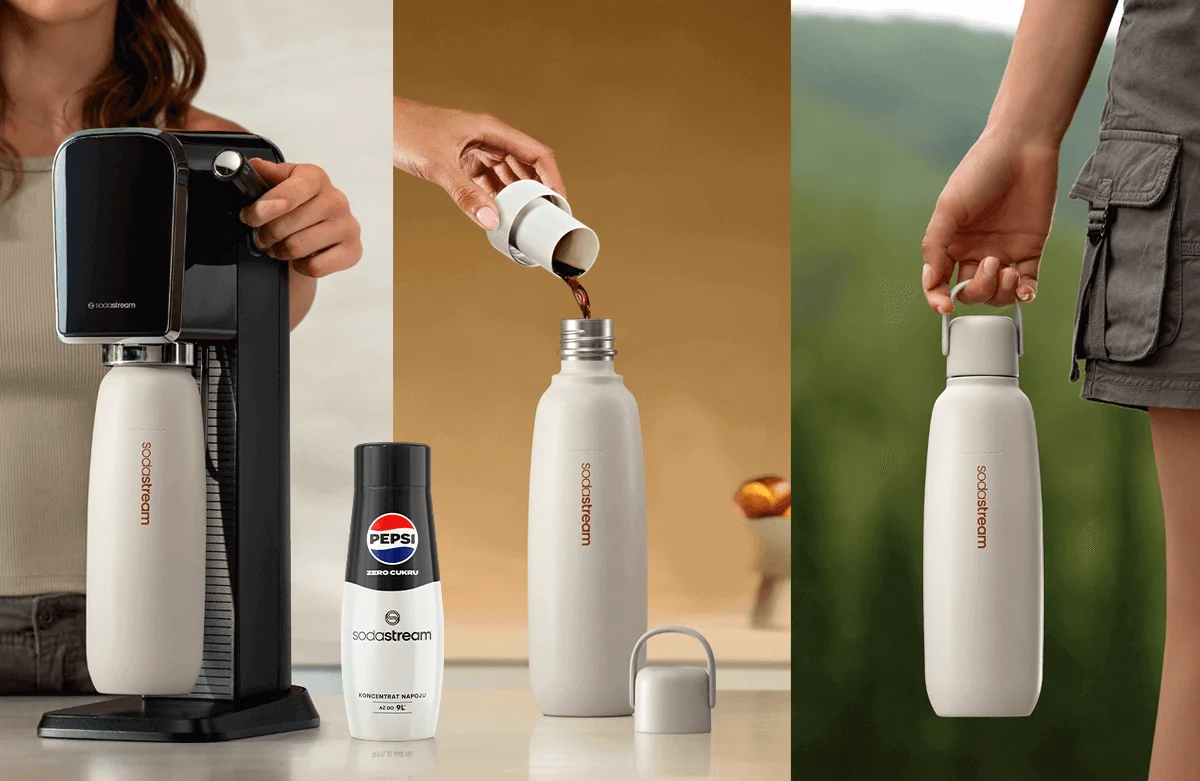
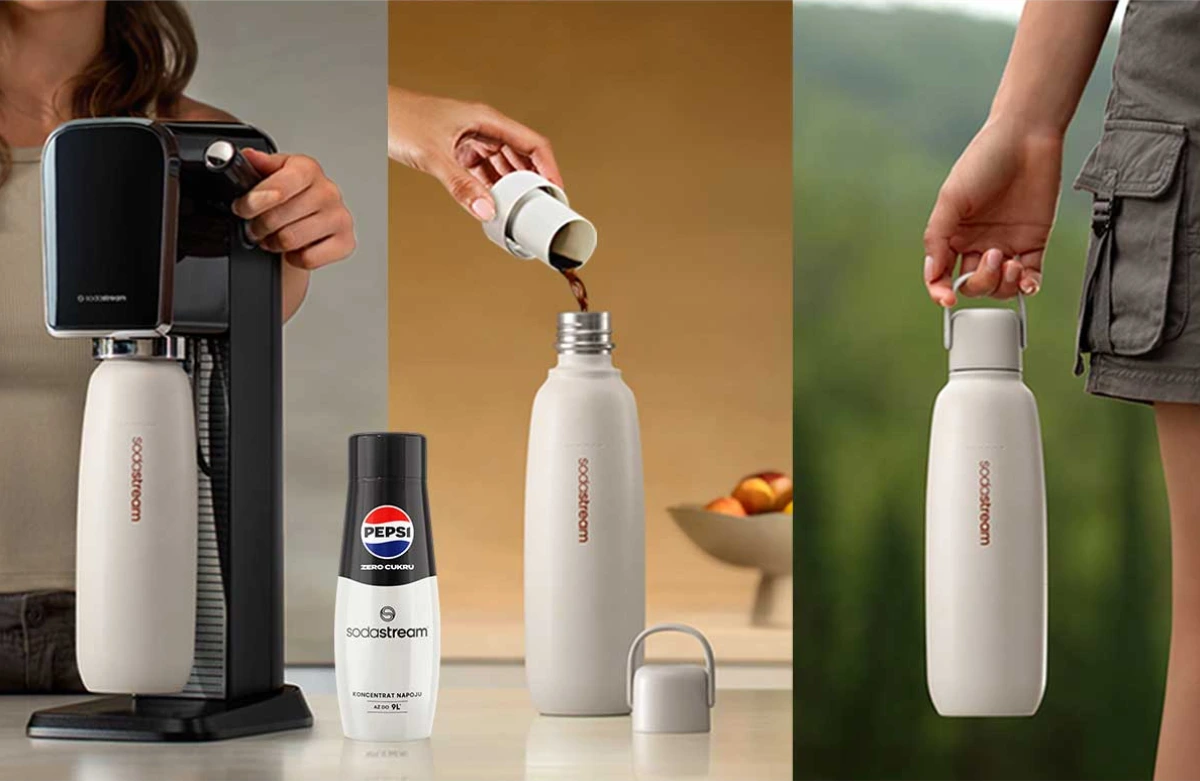
feat: modify colors and replace image

diff --git a/css/style.css b/css/style.css
@@ -1,1 +1,1 @@
-@font-face{font-family:HurmeGeometricSans3-Bold;src:local('HurmeGeometricSans3-Bold'),url('../fonts/HurmeGeometricSans3-Bold.woff2') format('truetype')}@font-face{font-family:HurmeGeometricSans3-Regular;src:local('HurmeGeometricSans3-Regular'),url('../fonts/HurmeGeometricSans3-Regular.woff2') format('truetype')}@font-face{font-family:HurmeGeometricSans3-Black;src:local('HurmeGeometricSans3-Black'),url('../fonts/HurmeGeometricSans3-Black.woff2') format('truetype')}@font-face{font-family:HurmeGeometricSans3-Light;src:local('HurmeGeometricSans3-Light'),url('../fonts/HurmeGeometricSans3-Light.woff2') format('truetype')}#es-rc #es-rc-content{font-family:HurmeGeometricSans3-Regular,sans-serif,sans-serif;font-size:16px;font-weight:300;line-height:1.2;max-width:920px;margin:0 auto;padding:0;overflow:hidden;color:#14284b;background:#fff}#es-rc #es-rc-content *{box-sizing:border-box}#es-rc #es-rc-content h2,#es-rc #es-rc-content h3,#es-rc #es-rc-content h4,#es-rc #es-rc-content h5,#es-rc #es-rc-content h6,#es-rc #es-rc-content p{margin:0}#es-rc #es-rc-content img{max-width:100%;display:block;margin:0 auto}#es-rc #es-rc-content .es-kv{background:url(../img/kv-bg.webp) center center/cover no-repeat;padding-bottom:75px}#es-rc #es-rc-content .es-kv__logo{padding-top:30px;margin-bottom:30px;max-width:90%}#es-rc #es-rc-content .es-kv__content{padding-left:10px;padding-right:10px;text-align:center}#es-rc #es-rc-content .es-kv__title{margin-bottom:10px;font-size:70px;font-family:HurmeGeometricSans3-Black,sans-serif;font-weight:500;color:inherit}#es-rc #es-rc-content .es-description__title,#es-rc #es-rc-content .es-design__description b,#es-rc #es-rc-content .es-kv__description,#es-rc #es-rc-content .es-kv__subtitle{font-family:HurmeGeometricSans3-Bold,sans-serif;font-weight:400}#es-rc #es-rc-content .es-kv__subtitle{margin-bottom:30px;font-size:18px}#es-rc #es-rc-content .es-kv__description{margin-bottom:20px}#es-rc #es-rc-content .es-description__subtitle,#es-rc #es-rc-content .es-description__title{margin-bottom:35px;font-size:16px;color:#eeebe6;text-align:center}#es-rc #es-rc-content .es-kv__packshot{max-width:30%}#es-rc #es-rc-content .es-description{display:flex;flex-direction:column-reverse;background:linear-gradient(to bottom,#898178 50%,#14284b 50%)}#es-rc #es-rc-content .es-description__left{padding:30px 10px 30px 0}#es-rc #es-rc-content .es-description__right{padding:30px 10px}#es-rc #es-rc-content .es-description__img{margin-top:-65px}#es-rc #es-rc-content .es-description__subtitle{font-family:HurmeGeometricSans3-Regular,sans-serif;font-weight:500}#es-rc #es-rc-content .es-style{background:#14284b;padding-bottom:50px;margin-top:-1px}#es-rc #es-rc-content .es-style__title{margin-bottom:20px;font-size:24px;font-family:HurmeGeometricSans3-Bold,sans-serif;font-weight:400;color:#fff;text-align:center}#es-rc #es-rc-content .es-style__subtitle{margin-bottom:10px;font-size:18px;font-family:HurmeGeometricSans3-Bold,sans-serif;color:#fff;text-align:center}#es-rc #es-rc-content .es-style__description{padding-left:10px;padding-right:10px;max-width:450px;margin:0 auto;font-size:16px;font-family:HurmeGeometricSans3-Regular,sans-serif;color:#fff;text-align:center}#es-rc #es-rc-content .es-style__packshot-title{margin-top:20px;margin-bottom:30px;font-size:24px;font-family:HurmeGeometricSans3-Bold,sans-serif;color:#fff;text-align:center}#es-rc #es-rc-content .es-style__img{max-width:25%}#es-rc #es-rc-content .es-style__img--desktop{max-width:100%;display:none}#es-rc #es-rc-content .es-style__packshot-wrapper{display:none}#es-rc #es-rc-content .es-style__packshot-desktop{max-width:480px;margin-top:45px}#es-rc #es-rc-content .es-benefits{padding-top:30px;padding-bottom:30px;background:linear-gradient(to bottom,#eeebe6 30%,#72b1c3 30%)}#es-rc #es-rc-content .es-benefits__img,#es-rc #es-rc-content .es-features__img,#es-rc #es-rc-content .es-steps__image{margin-bottom:30px}#es-rc #es-rc-content .es-benefits__title,#es-rc #es-rc-content .es-features__title{padding-left:10px;padding-right:10px;margin-bottom:30px;font-size:24px;font-family:HurmeGeometricSans3-Bold,sans-serif;font-weight:400;text-align:center;color:#14284b}#es-rc #es-rc-content .es-benefits__subtitle{padding-left:10px;padding-right:10px;margin-bottom:10px;font-size:16px;text-align:left;font-family:HurmeGeometricSans3-Bold,sans-serif;color:#14284b}#es-rc #es-rc-content .es-benefits__description,#es-rc #es-rc-content .es-design__description,#es-rc #es-rc-content .es-features__description{padding-left:10px;padding-right:10px;margin-bottom:20px;font-size:16px;font-family:HurmeGeometricSans3-Regular,sans-serif}#es-rc #es-rc-content .es-benefits__content-title{max-width:300px;margin:0 auto 30px;font-size:24px;font-family:HurmeGeometricSans3-Bold,sans-serif;font-weight:400;color:#14284b;text-align:center}#es-rc #es-rc-content .es-benefits__content-list,#es-rc #es-rc-content .es-steps__list{display:flex;flex-direction:column;align-items:center;gap:30px}#es-rc #es-rc-content .es-benefits__content-list-item{max-width:250px}#es-rc #es-rc-content .es-benefits__content-list-item-image{margin-bottom:20px}#es-rc #es-rc-content .es-benefits__content-list-item-title{padding-left:10px;padding-right:10px;margin-bottom:20px;font-size:16px;font-family:HurmeGeometricSans3-Regular,sans-serif;color:#14284b;font-weight:700;text-align:center}#es-rc #es-rc-content .es-features{margin-top:-1px;background:linear-gradient(to bottom,#72b1c3 10%,#eeebe6 10%)}#es-rc #es-rc-content .es-features__bottle-content{padding-bottom:50px}#es-rc #es-rc-content .es-features__bottle-content-image{margin-bottom:30px;max-width:40%}#es-rc #es-rc-content .es-features__bottle-content-icons{display:flex;flex-direction:column;gap:30px}#es-rc #es-rc-content .es-features__bottle-content-single{max-width:250px;margin:0 auto}#es-rc #es-rc-content .es-features__bottle-content-icon-image{margin-bottom:20px}#es-rc #es-rc-content .es-features__bottle-content-icon-title{font-size:16px;font-family:HurmeGeometricSans3-Regular,sans-serif;text-align:center}#es-rc #es-rc-content .es-features__bottle-content--desktop{display:none}#es-rc #es-rc-content .es-steps{background:#eeebe6;padding-bottom:50px}#es-rc #es-rc-content .es-steps__group{position:relative}#es-rc #es-rc-content .es-steps__label{position:absolute;font-family:HurmeGeometricSans3-Regular,sans-serif;font-size:clamp(8px, 2.5vw, 26px);font-weight:700;color:#fff;text-transform:uppercase;width:clamp(50px,20vw,200px);height:clamp(50px,20vw,200px);border-radius:50%;background-color:#e46c5c;display:flex;align-items:center;justify-content:center;text-align:center;padding:10px;line-height:1.2;top:38%;right:22%}#es-rc #es-rc-content .es-steps__text{position:absolute;font-family:HurmeGeometricSans3-Bold,sans-serif;font-size:20px;font-size:clamp(18px, 5vw, 60px);font-weight:700;color:#fff}#es-rc #es-rc-content .es-steps__text--first{top:5%;left:10%}#es-rc #es-rc-content .es-steps__text--second{top:5%;left:40%}#es-rc #es-rc-content .es-steps__text--third{top:5%;right:3%}#es-rc #es-rc-content .es-steps__single{display:flex;flex-direction:column;align-items:center;gap:20px;max-width:275px}#es-rc #es-rc-content .es-steps__single-title{font-size:30px;margin-bottom:10px;font-family:HurmeGeometricSans3-Bold,sans-serif;text-align:center;color:#898178}#es-rc #es-rc-content .es-cross__subtitle,#es-rc #es-rc-content .es-restrictions__description,#es-rc #es-rc-content .es-steps__single-description{padding-left:10px;padding-right:10px;font-size:16px;font-family:HurmeGeometricSans3-Regular,sans-serif;text-align:center;margin-bottom:20px}#es-rc #es-rc-content .es-steps__single-image{width:200px}#es-rc #es-rc-content .es-restrictions{background-color:#898178;position:relative;padding-bottom:60px}#es-rc #es-rc-content .es-restrictions__image{position:absolute;margin-top:-40px;top:0;left:0}#es-rc #es-rc-content .es-restrictions__description{padding-top:60%;color:#eeebe6}#es-rc #es-rc-content .es-restrictions__description--bold{display:block;font-family:HurmeGeometricSans3-Bold,sans-serif}#es-rc #es-rc-content .es-restrictions__disclaimer{padding-left:20px;padding-right:20px;margin-bottom:20px;font-size:12px;font-family:HurmeGeometricSans3-Regular,sans-serif;color:#eeebe6;text-align:right}#es-rc #es-rc-content .es-design{background:linear-gradient(to bottom,#e5dcd3 95%,#eeebe6 10%);padding-top:100%;position:relative;padding-bottom:30px}#es-rc #es-rc-content .es-cross__title,#es-rc #es-rc-content .es-design__title{padding-left:10px;padding-right:10px;margin-bottom:30px;font-size:24px;font-family:HurmeGeometricSans3-Bold,sans-serif;text-align:center}#es-rc #es-rc-content .es-design__left-image{position:absolute;top:0;left:0;margin-top:-20px}#es-rc #es-rc-content .es-design__content{padding-left:10px;padding-right:10px;padding-bottom:20px}#es-rc #es-rc-content .es-cross,#es-rc #es-rc-content .es-footer{background:#eeebe6;padding-bottom:30px}#es-rc #es-rc-content .es-cross__single-image{max-width:75%;margin-bottom:30px}#es-rc #es-rc-content .es-cross__items{display:flex;flex-direction:column;align-items:center;gap:20px}#es-rc #es-rc-content .es-cross__single-item-title{padding-left:10px;padding-right:10px;font-size:18px;font-family:HurmeGeometricSans3-Bold,sans-serif;text-align:center}#es-rc #es-rc-content .es-cross__single-description{padding-left:10px;padding-right:10px;margin-bottom:20px;font-size:15px;font-family:HurmeGeometricSans3-Regular,sans-serif;text-align:center}#es-rc #es-rc-content .es-footer__image{max-width:90%;margin-bottom:20px}#es-rc #es-rc-content .es-footer__subtitle{margin-bottom:30px;font-size:16px;font-family:HurmeGeometricSans3-Bold,sans-serif;font-weight:700;text-align:center}@media screen and (min-width:500px){#es-rc #es-rc-content .es-benefits__content-list{flex-direction:row;flex-wrap:wrap;justify-content:center;align-items:flex-start;max-width:500px;margin:0 auto}#es-rc #es-rc-content .es-benefits__content-list-item{max-width:220px}}@media screen and (min-width:567px){#es-rc #es-rc-content .es-description__img{max-width:380px;margin-left:0}#es-rc #es-rc-content .es-benefits__img,#es-rc #es-rc-content .es-design__right-image{max-width:450px;margin-right:0}#es-rc #es-rc-content .es-design__left-image,#es-rc #es-rc-content .es-features__img{max-width:450px;margin-left:0}#es-rc #es-rc-content .es-design{padding-top:455px}}@media screen and (min-width:768px){#es-rc #es-rc-content .es-features__title,#es-rc #es-rc-content .es-steps__single-description--1{text-align:left}#es-rc #es-rc-content .es-kv{position:relative;min-height:600px}#es-rc #es-rc-content .es-kv__logo{margin-left:35px;padding-top:100px;margin-bottom:0;max-width:30%}#es-rc #es-rc-content .es-kv__content{margin-left:35px;padding-left:0;max-width:500px;text-align:left}#es-rc #es-rc-content .es-kv__title{font-size:110px}#es-rc #es-rc-content .es-kv__subtitle{margin-bottom:100px;font-size:32px}#es-rc #es-rc-content .es-kv__description{max-width:300px}#es-rc #es-rc-content .es-kv__packshot{position:absolute;top:10%;right:16%;max-width:160px}#es-rc #es-rc-content .es-description{padding-top:50px;display:flex;flex-direction:row;justify-content:space-between;background:linear-gradient(to bottom,#898178 85%,#14284b 50%);min-height:400px}#es-rc #es-rc-content .es-description__right{max-width:310px;margin-right:8%}#es-rc #es-rc-content .es-description__img{margin-top:-150px;max-width:380px;position:relative;z-index:1}#es-rc #es-rc-content .es-style{background:linear-gradient(to bottom,#14284b 75%,#eeebe6 50%);padding-bottom:0}#es-rc #es-rc-content .es-style__title{font-size:35px;margin-bottom:100px}#es-rc #es-rc-content .es-style__description{margin:0 auto 30px;max-width:545px;font-size:20px}#es-rc #es-rc-content .es-style__packshots{display:none}#es-rc #es-rc-content .es-style__packshot-wrapper{display:block;position:relative;max-width:735px;margin:0 auto}#es-rc #es-rc-content .es-style__packshot-desktop-title{position:absolute;font-size:24px;font-family:HurmeGeometricSans3-Bold,sans-serif;color:#fff}#es-rc #es-rc-content .es-style__packshot-desktop-title--1{top:40%;left:9%;max-width:75px}#es-rc #es-rc-content .es-style__packshot-desktop-title--2{top:-34%;left:37%}#es-rc #es-rc-content .es-style__packshot-desktop-title--3{top:40%;right:11%;max-width:75px}#es-rc #es-rc-content .es-benefits{padding-top:0;background:linear-gradient(to bottom,#eeebe6 41%,#72b1c3 30%)}#es-rc #es-rc-content .es-benefits__title,#es-rc #es-rc-content .es-design__title{font-size:24px}#es-rc #es-rc-content .es-benefits__inner{display:flex;flex-direction:row;justify-content:space-around}#es-rc #es-rc-content .es-benefits__img{max-width:380px;margin-right:0}#es-rc #es-rc-content .es-benefits__content-list{display:flex;flex-direction:row;align-items:flex-start;justify-content:center;max-width:none;flex-wrap:nowrap}#es-rc #es-rc-content .es-benefits__content-title--2{max-width:320px;margin-left:30px;margin-top:-145px}#es-rc #es-rc-content .es-benefits__content-wrapper{padding-top:60px;padding-left:25px;max-width:335px}#es-rc #es-rc-content .es-benefits__content-list-item{min-width:125px;max-width:190px}#es-rc #es-rc-content .es-benefits__content-list-item-title{font-size:14px}#es-rc #es-rc-content .es-benefits__content-list-item-image{max-width:100px}#es-rc #es-rc-content .es-features__wrapper{display:flex}#es-rc #es-rc-content .es-features__bottle-content--desktop{display:block;position:relative;max-width:565px;margin:0 auto}#es-rc #es-rc-content .es-features__bottle-content--mobile{display:none}#es-rc #es-rc-content .es-cross__single-image,#es-rc #es-rc-content .es-features__bottle-content-image{max-width:75%}#es-rc #es-rc-content .es-features__bottle-content-icon-title{position:absolute;max-width:250px;font-size:14px}#es-rc #es-rc-content .es-features__bottle-content-icon-title--1{left:-2%;top:45%}#es-rc #es-rc-content .es-features__bottle-content-icon-title--2{top:26%;right:7%}#es-rc #es-rc-content .es-features__bottle-content-icon-title--3{top:68%;right:0}#es-rc #es-rc-content .es-features__inner{padding-top:125px;margin-right:8%;max-width:39%}#es-rc #es-rc-content .es-steps__list{gap:0;justify-content:center}#es-rc #es-rc-content .es-steps__single{flex-direction:row;justify-content:center;max-width:650px}#es-rc #es-rc-content .es-steps__single--2{margin-left:-12.6%;margin-top:-.1%}#es-rc #es-rc-content .es-steps__single--3{margin-left:-3%;margin-top:-.1%}#es-rc #es-rc-content .es-steps__single-title{font-size:57px}#es-rc #es-rc-content .es-steps__single-title--2{order:3}#es-rc #es-rc-content .es-steps__single-image--2{order:2}#es-rc #es-rc-content .es-steps__single-description{font-size:18px}#es-rc #es-rc-content .es-steps__single-description--2{order:1;text-align:right}#es-rc #es-rc-content .es-steps__single-description--3{text-align:left}#es-rc #es-rc-content .es-restrictions__disclaimer{max-width:50%;margin-left:auto}#es-rc #es-rc-content .es-design{padding-top:50px}#es-rc #es-rc-content .es-design__left-image{position:unset;margin-bottom:20px}#es-rc #es-rc-content .es-cross__subtitle{max-width:70%;margin:0 auto 30px}#es-rc #es-rc-content .es-cross__items{flex-direction:row;align-items:flex-start;justify-content:center}#es-rc #es-rc-content .es-cross__single-item-title{min-height:48px}#es-rc #es-rc-content .es-cross__single{display:flex;flex-direction:column;align-items:center;justify-content:center;max-width:250px;min-width:225px}}#es-rc #es-rc-content .es-footer__image-logo{max-width:218px}@media screen and (min-width:900px){#es-rc #es-rc-content .es-benefits__content-wrapper{padding-top:74px;padding-left:80px;max-width:600px}#es-rc #es-rc-content .es-benefits__subtitle{margin-bottom:31px}}@media screen and (min-width:998px){#es-rc #es-rc-content .es .es-steps__single-description,#es-rc #es-rc-content .es-design__title{text-align:left}#es-rc #es-rc-content .es-kv__subtitle{font-size:36px}#es-rc #es-rc-content .es-kv__inner{padding-left:40px}#es-rc #es-rc-content .es-description__left{padding-bottom:0}#es-rc #es-rc-content .es-style,#es-rc #es-rc-content .es-style__packshot-wrapper{margin-top:-45px}#es-rc #es-rc-content .es-style__description{z-index:1;position:relative}#es-rc #es-rc-content .es-style__packshot-desktop-title--2{top:-24%}#es-rc #es-rc-content .es-design{padding-top:0}#es-rc #es-rc-content .es-design__left,#es-rc #es-rc-content .es-design__right{display:flex}#es-rc #es-rc-content .es-design__content{margin-right:10%;max-width:33%}#es-rc #es-rc-content .es-design__content--1{padding-top:3%;margin-right:5%;max-width:42%}#es-rc #es-rc-content .es-design__content--2{padding-top:3%;margin-left:4%;margin-right:2%;max-width:46%}#es-rc #es-rc-content .es .es-steps__image{margin-bottom:0}#es-rc #es-rc-content .es .es-steps__single{max-width:720px}#es-rc #es-rc-content .es .es-steps__single-title{font-size:65px}#es-rc #es-rc-content .es .es-steps__single-description--2{text-align:right}#es-rc #es-rc-content .es-cross__single{max-width:295px}#es-rc #es-rc-content .es-cross__single-item-title{min-height:unset}#es-rc #es-rc-content .es-cross__single-image{max-width:250px}#es-rc #es-rc-content .es-restrictions__image{margin-top:-75px}#es-rc #es-rc-content .es-benefits__title,#es-rc #es-rc-content .es-cross__title,#es-rc #es-rc-content .es-design__title,#es-rc #es-rc-content .es-features__title{font-size:28px}#es-rc #es-rc-content .es-footer__image{margin-bottom:40px}#es-rc #es-rc-content .es-footer__subtitle{margin-bottom:50px;font-size:18px}}@media screen and (min-width:1200px){#es-rc #es-rc-content .es-kv{padding-bottom:40px}#es-rc #es-rc-content .es-kv__logo{margin-left:35px;padding-top:70px;margin-bottom:0;max-width:40%}#es-rc #es-rc-content .es-kv__content{margin-left:30px;max-width:700px}#es-rc #es-rc-content .es-kv__title{font-size:130px}#es-rc #es-rc-content .es-kv__subtitle{margin-bottom:85px;font-size:35px}#es-rc #es-rc-content .es-kv__packshot{max-width:160px;right:20%;top:7%}#es-rc #es-rc-content .es-kv__description{max-width:500px;font-size:18px}#es-rc #es-rc-content .es-description{background:linear-gradient(to bottom,#898178 78%,#14284b 50%)}#es-rc #es-rc-content .es-description__img{max-width:435px;margin-top:-130px}#es-rc #es-rc-content .es-description__subtitle,#es-rc #es-rc-content .es-description__title,#es-rc #es-rc-content .es-features__description{font-size:18px}#es-rc #es-rc-content .es-description__right{max-width:494px;margin-right:9%}#es-rc #es-rc-content .es-style{margin-top:-65px;background:linear-gradient(to bottom,#14284b 80%,#eeebe6 50%)}#es-rc #es-rc-content .es-style__title{margin-bottom:85px}#es-rc #es-rc-content .es-style__packshot-wrapper{margin-top:-100px;max-width:100%}#es-rc #es-rc-content .es-style__description{font-size:18px;max-width:574px}#es-rc #es-rc-content .es-style__packshot-desktop-title{max-width:100%;font-size:27px}#es-rc #es-rc-content .es-style__packshot-desktop-title--1{top:40%;left:4%}#es-rc #es-rc-content .es-style__packshot-desktop-title--2{top:-12%;left:42%}#es-rc #es-rc-content .es-style__packshot-desktop-title--3{top:40%;right:7%}#es-rc #es-rc-content .es-benefits__title,#es-rc #es-rc-content .es-cross__title,#es-rc #es-rc-content .es-design__title,#es-rc #es-rc-content .es-features__title{font-size:27px}#es-rc #es-rc-content .es-features__bottle-content-image{max-width:100%}#es-rc #es-rc-content .es-benefits{background:linear-gradient(to bottom,#eeebe6 41%,#72b1c3 30%)}#es-rc #es-rc-content .es-benefits__img,#es-rc #es-rc-content .es-design__left-image,#es-rc #es-rc-content .es-design__right-image,#es-rc #es-rc-content .es-features__img{max-width:450px}#es-rc #es-rc-content .es-benefits__content-wrapper{padding-top:74px;padding-left:80px;max-width:535px}#es-rc #es-rc-content .es-benefits__subtitle{font-size:18px;margin-bottom:31px}#es-rc #es-rc-content .es-benefits__description{font-size:19px}#es-rc #es-rc-content .es-benefits__content-title--2{max-width:435px;margin-left:86px;margin-bottom:75px;font-size:28px}#es-rc #es-rc-content .es-benefits__content-list-item{max-width:200px}#es-rc #es-rc-content .es-benefits__content-list-item-title{font-size:14px}#es-rc #es-rc-content .es-benefits__content-list-item-image{max-width:105px;margin-bottom:30px}#es-rc #es-rc-content .es-features__bottle-content-icon-title{font-size:14px;max-width:300px}#es-rc #es-rc-content .es-features__bottle-content-icon-title--1{left:-10%;top:47%;max-width:340px}#es-rc #es-rc-content .es-features__bottle-content-icon-title--2{top:28%;right:-2%}#es-rc #es-rc-content .es-features__bottle-content-icon-title--3{max-width:317px;top:72%;right:-8%}#es-rc #es-rc-content .es-steps__text--first{top:3%;left:5%}#es-rc #es-rc-content .es-steps__text--second{top:3%;left:38%}#es-rc #es-rc-content .es-steps__text--third{top:3%;right:2%}#es-rc #es-rc-content .es-steps__single{max-width:690px}#es-rc #es-rc-content .es-steps__single--1{margin-left:8.7%}#es-rc #es-rc-content .es-steps__single--2{margin-left:-12.6%;margin-top:-.1%}#es-rc #es-rc-content .es-steps__single--3{margin-left:7%;margin-top:-.2%}#es-rc #es-rc-content .es-steps__single-title{font-size:55px}#es-rc #es-rc-content .es-design__description,#es-rc #es-rc-content .es-steps__single-description{font-size:18px}#es-rc #es-rc-content .es-restrictions__description{max-width:82%;margin:0 auto;padding-top:55%;font-size:18px}#es-rc #es-rc-content .es-restrictions__disclaimer{margin-top:33px;margin-right:70px}#es-rc #es-rc-content .es-design__content--1{padding-top:6%;margin-right:8%;max-width:40%}#es-rc #es-rc-content .es-design__content--2{padding-top:4%;margin-left:6%;max-width:73%;margin-right:2%}#es-rc #es-rc-content .es-cross__single{max-width:340px;min-width:275px}#es-rc #es-rc-content .es-cross__subtitle{font-size:18px;max-width:79%}#es-rc #es-rc-content .es-cross__single-item-title{font-size:18px}#es-rc #es-rc-content .es-cross__single-description{font-size:15px}#es-rc #es-rc-content .es-cross__items{gap:1px}#es-rc #es-rc-content .es-steps__list{margin-top:-30px}#es-rc #es-rc-content .es-style__packshot-desktop-title--1,#es-rc #es-rc-content .es-style__packshot-desktop-title--3{max-width:none}}
+@font-face{font-family:HurmeGeometricSans3-Bold;src:local('HurmeGeometricSans3-Bold'),url('../fonts/HurmeGeometricSans3-Bold.woff2') format('truetype')}@font-face{font-family:HurmeGeometricSans3-Regular;src:local('HurmeGeometricSans3-Regular'),url('../fonts/HurmeGeometricSans3-Regular.woff2') format('truetype')}@font-face{font-family:HurmeGeometricSans3-Black;src:local('HurmeGeometricSans3-Black'),url('../fonts/HurmeGeometricSans3-Black.woff2') format('truetype')}@font-face{font-family:HurmeGeometricSans3-Light;src:local('HurmeGeometricSans3-Light'),url('../fonts/HurmeGeometricSans3-Light.woff2') format('truetype')}#es-rc #es-rc-content{font-family:HurmeGeometricSans3-Regular,sans-serif,sans-serif;font-size:16px;font-weight:300;line-height:1.2;max-width:920px;margin:0 auto;padding:0;overflow:hidden;color:#14284b;background:#fff}#es-rc #es-rc-content *{box-sizing:border-box}#es-rc #es-rc-content h2,#es-rc #es-rc-content h3,#es-rc #es-rc-content h4,#es-rc #es-rc-content h5,#es-rc #es-rc-content h6,#es-rc #es-rc-content p{margin:0}#es-rc #es-rc-content img{max-width:100%;display:block;margin:0 auto}#es-rc #es-rc-content .es-kv{background:url(../img/kv-bg.webp) center center/cover no-repeat;padding-bottom:75px}#es-rc #es-rc-content .es-kv__logo{padding-top:30px;margin-bottom:30px;max-width:90%}#es-rc #es-rc-content .es-kv__content{padding-left:10px;padding-right:10px;text-align:center}#es-rc #es-rc-content .es-kv__title{margin-bottom:10px;font-size:70px;font-family:HurmeGeometricSans3-Black,sans-serif;font-weight:500;color:inherit}#es-rc #es-rc-content .es-description__title,#es-rc #es-rc-content .es-design__description b,#es-rc #es-rc-content .es-kv__description,#es-rc #es-rc-content .es-kv__subtitle{font-family:HurmeGeometricSans3-Bold,sans-serif;font-weight:400}#es-rc #es-rc-content .es-kv__subtitle{margin-bottom:30px;font-size:18px}#es-rc #es-rc-content .es-kv__description{margin-bottom:20px}#es-rc #es-rc-content .es-description__subtitle,#es-rc #es-rc-content .es-description__title{margin-bottom:35px;font-size:16px;color:#eeebe6;text-align:center}#es-rc #es-rc-content .es-kv__packshot{max-width:30%}#es-rc #es-rc-content .es-description{display:flex;flex-direction:column-reverse;background:linear-gradient(to bottom,#7E746D 50%,#14284b 50%)}#es-rc #es-rc-content .es-description__left{padding:30px 10px 30px 0}#es-rc #es-rc-content .es-description__right{padding:30px 10px}#es-rc #es-rc-content .es-description__img{margin-top:-65px}#es-rc #es-rc-content .es-description__subtitle{font-family:HurmeGeometricSans3-Regular,sans-serif;font-weight:500}#es-rc #es-rc-content .es-style{background:#14284b;padding-bottom:50px;margin-top:-1px}#es-rc #es-rc-content .es-style__title{margin-bottom:20px;font-size:24px;font-family:HurmeGeometricSans3-Bold,sans-serif;font-weight:400;color:#fff;text-align:center}#es-rc #es-rc-content .es-style__subtitle{margin-bottom:10px;font-size:18px;font-family:HurmeGeometricSans3-Bold,sans-serif;color:#fff;text-align:center}#es-rc #es-rc-content .es-style__description{padding-left:10px;padding-right:10px;max-width:450px;margin:0 auto;font-size:16px;font-family:HurmeGeometricSans3-Regular,sans-serif;color:#fff;text-align:center}#es-rc #es-rc-content .es-style__packshot-title{margin-top:20px;margin-bottom:30px;font-size:24px;font-family:HurmeGeometricSans3-Bold,sans-serif;color:#fff;text-align:center}#es-rc #es-rc-content .es-style__img{max-width:25%}#es-rc #es-rc-content .es-style__img--desktop{max-width:100%;display:none}#es-rc #es-rc-content .es-style__packshot-wrapper{display:none}#es-rc #es-rc-content .es-style__packshot-desktop{max-width:480px;margin-top:45px}#es-rc #es-rc-content .es-benefits{padding-top:30px;padding-bottom:30px;background:linear-gradient(to bottom,#eeebe6 30%,#72b1c3 30%)}#es-rc #es-rc-content .es-benefits__img,#es-rc #es-rc-content .es-features__img,#es-rc #es-rc-content .es-steps__image{margin-bottom:30px}#es-rc #es-rc-content .es-benefits__title,#es-rc #es-rc-content .es-features__title{padding-left:10px;padding-right:10px;margin-bottom:30px;font-size:24px;font-family:HurmeGeometricSans3-Bold,sans-serif;font-weight:400;text-align:center;color:#14284b}#es-rc #es-rc-content .es-benefits__subtitle{padding-left:10px;padding-right:10px;margin-bottom:10px;font-size:16px;text-align:left;font-family:HurmeGeometricSans3-Bold,sans-serif;color:#14284b}#es-rc #es-rc-content .es-benefits__description,#es-rc #es-rc-content .es-design__description,#es-rc #es-rc-content .es-features__description{padding-left:10px;padding-right:10px;margin-bottom:20px;font-size:16px;font-family:HurmeGeometricSans3-Regular,sans-serif}#es-rc #es-rc-content .es-benefits__content-title{max-width:300px;margin:0 auto 30px;font-size:24px;font-family:HurmeGeometricSans3-Bold,sans-serif;font-weight:400;color:#14284b;text-align:center}#es-rc #es-rc-content .es-benefits__content-list,#es-rc #es-rc-content .es-steps__list{display:flex;flex-direction:column;align-items:center;gap:30px}#es-rc #es-rc-content .es-benefits__content-list-item{max-width:250px}#es-rc #es-rc-content .es-benefits__content-list-item-image{margin-bottom:20px}#es-rc #es-rc-content .es-benefits__content-list-item-title{padding-left:10px;padding-right:10px;margin-bottom:20px;font-size:16px;font-family:HurmeGeometricSans3-Regular,sans-serif;color:#14284b;font-weight:700;text-align:center}#es-rc #es-rc-content .es-features{margin-top:-1px;background:linear-gradient(to bottom,#72b1c3 10%,#eeebe6 10%)}#es-rc #es-rc-content .es-features__bottle-content{padding-bottom:50px}#es-rc #es-rc-content .es-features__bottle-content-image{margin-bottom:30px;max-width:40%}#es-rc #es-rc-content .es-features__bottle-content-icons{display:flex;flex-direction:column;gap:30px}#es-rc #es-rc-content .es-features__bottle-content-single{max-width:250px;margin:0 auto}#es-rc #es-rc-content .es-features__bottle-content-icon-image{margin-bottom:20px}#es-rc #es-rc-content .es-features__bottle-content-icon-title{font-size:16px;font-family:HurmeGeometricSans3-Regular,sans-serif;text-align:center}#es-rc #es-rc-content .es-features__bottle-content--desktop{display:none}#es-rc #es-rc-content .es-steps{background:#eeebe6;padding-bottom:50px}#es-rc #es-rc-content .es-steps__group{position:relative}#es-rc #es-rc-content .es-steps__label{position:absolute;font-family:HurmeGeometricSans3-Regular,sans-serif;font-size:clamp(8px, 2.5vw, 26px);font-weight:700;color:#fff;text-transform:uppercase;width:clamp(50px,20vw,200px);height:clamp(50px,20vw,200px);border-radius:50%;background-color:#d04735;display:flex;align-items:center;justify-content:center;text-align:center;padding:10px;line-height:1.2;top:38%;right:22%}#es-rc #es-rc-content .es-steps__text{position:absolute;font-family:HurmeGeometricSans3-Bold,sans-serif;font-size:20px;font-size:clamp(18px, 5vw, 60px);font-weight:700;color:#fff}#es-rc #es-rc-content .es-steps__text--first{top:5%;left:10%}#es-rc #es-rc-content .es-steps__text--second{top:5%;left:40%}#es-rc #es-rc-content .es-steps__text--third{top:5%;right:3%}#es-rc #es-rc-content .es-steps__single{display:flex;flex-direction:column;align-items:center;gap:20px;max-width:275px}#es-rc #es-rc-content .es-steps__single-title{font-size:30px;margin-bottom:10px;font-family:HurmeGeometricSans3-Bold,sans-serif;text-align:center;color:#7E746D}#es-rc #es-rc-content .es-cross__subtitle,#es-rc #es-rc-content .es-restrictions__description,#es-rc #es-rc-content .es-steps__single-description{padding-left:10px;padding-right:10px;font-size:16px;font-family:HurmeGeometricSans3-Regular,sans-serif;text-align:center;margin-bottom:20px}#es-rc #es-rc-content .es-steps__single-image{width:200px}#es-rc #es-rc-content .es-restrictions{background-color:#7E746D;position:relative;padding-bottom:60px}#es-rc #es-rc-content .es-restrictions__image{position:absolute;margin-top:-40px;top:0;left:0}#es-rc #es-rc-content .es-restrictions__description{padding-top:60%;color:#eeebe6}#es-rc #es-rc-content .es-restrictions__description--bold{display:block;font-family:HurmeGeometricSans3-Bold,sans-serif}#es-rc #es-rc-content .es-restrictions__disclaimer{padding-left:20px;padding-right:20px;margin-bottom:20px;font-size:12px;font-family:HurmeGeometricSans3-Regular,sans-serif;color:#eeebe6;text-align:right}#es-rc #es-rc-content .es-design{background:linear-gradient(to bottom,#e5dcd3 95%,#eeebe6 10%);padding-top:100%;position:relative;padding-bottom:30px}#es-rc #es-rc-content .es-cross__title,#es-rc #es-rc-content .es-design__title{padding-left:10px;padding-right:10px;margin-bottom:30px;font-size:24px;font-family:HurmeGeometricSans3-Bold,sans-serif;text-align:center}#es-rc #es-rc-content .es-design__left-image{position:absolute;top:0;left:0;margin-top:-20px}#es-rc #es-rc-content .es-design__content{padding-left:10px;padding-right:10px;padding-bottom:20px}#es-rc #es-rc-content .es-cross,#es-rc #es-rc-content .es-footer{background:#eeebe6;padding-bottom:30px}#es-rc #es-rc-content .es-cross__single-image{max-width:75%;margin-bottom:30px}#es-rc #es-rc-content .es-cross__items{display:flex;flex-direction:column;align-items:center;gap:20px}#es-rc #es-rc-content .es-cross__single-item-title{padding-left:10px;padding-right:10px;font-size:18px;font-family:HurmeGeometricSans3-Bold,sans-serif;text-align:center}#es-rc #es-rc-content .es-cross__single-description{padding-left:10px;padding-right:10px;margin-bottom:20px;font-size:15px;font-family:HurmeGeometricSans3-Regular,sans-serif;text-align:center}#es-rc #es-rc-content .es-footer__image{max-width:90%;margin-bottom:20px}#es-rc #es-rc-content .es-footer__subtitle{margin-bottom:30px;font-size:16px;font-family:HurmeGeometricSans3-Bold,sans-serif;font-weight:700;text-align:center}@media screen and (min-width:500px){#es-rc #es-rc-content .es-benefits__content-list{flex-direction:row;flex-wrap:wrap;justify-content:center;align-items:flex-start;max-width:500px;margin:0 auto}#es-rc #es-rc-content .es-benefits__content-list-item{max-width:220px}}@media screen and (min-width:567px){#es-rc #es-rc-content .es-description__img{max-width:380px;margin-left:0}#es-rc #es-rc-content .es-benefits__img,#es-rc #es-rc-content .es-design__right-image{max-width:450px;margin-right:0}#es-rc #es-rc-content .es-design__left-image,#es-rc #es-rc-content .es-features__img{max-width:450px;margin-left:0}#es-rc #es-rc-content .es-design{padding-top:455px}}@media screen and (min-width:768px){#es-rc #es-rc-content .es-features__title,#es-rc #es-rc-content .es-steps__single-description--1{text-align:left}#es-rc #es-rc-content .es-kv{position:relative;min-height:600px}#es-rc #es-rc-content .es-kv__logo{margin-left:35px;padding-top:100px;margin-bottom:0;max-width:30%}#es-rc #es-rc-content .es-kv__content{margin-left:35px;padding-left:0;max-width:500px;text-align:left}#es-rc #es-rc-content .es-kv__title{font-size:110px}#es-rc #es-rc-content .es-kv__subtitle{margin-bottom:100px;font-size:32px}#es-rc #es-rc-content .es-kv__description{max-width:300px}#es-rc #es-rc-content .es-kv__packshot{position:absolute;top:10%;right:16%;max-width:160px}#es-rc #es-rc-content .es-description{padding-top:50px;display:flex;flex-direction:row;justify-content:space-between;background:linear-gradient(to bottom,#7E746D 85%,#14284b 50%);min-height:400px}#es-rc #es-rc-content .es-description__right{max-width:310px;margin-right:8%}#es-rc #es-rc-content .es-description__img{margin-top:-150px;max-width:380px;position:relative;z-index:1}#es-rc #es-rc-content .es-style{background:linear-gradient(to bottom,#14284b 75%,#eeebe6 50%);padding-bottom:0}#es-rc #es-rc-content .es-style__title{font-size:35px;margin-bottom:100px}#es-rc #es-rc-content .es-style__description{margin:0 auto 30px;max-width:545px;font-size:20px}#es-rc #es-rc-content .es-style__packshots{display:none}#es-rc #es-rc-content .es-style__packshot-wrapper{display:block;position:relative;max-width:735px;margin:0 auto}#es-rc #es-rc-content .es-style__packshot-desktop-title{position:absolute;font-size:24px;font-family:HurmeGeometricSans3-Bold,sans-serif;color:#fff}#es-rc #es-rc-content .es-style__packshot-desktop-title--1{top:40%;left:9%;max-width:75px}#es-rc #es-rc-content .es-style__packshot-desktop-title--2{top:-34%;left:37%}#es-rc #es-rc-content .es-style__packshot-desktop-title--3{top:40%;right:11%;max-width:75px}#es-rc #es-rc-content .es-benefits{padding-top:0;background:linear-gradient(to bottom,#eeebe6 41%,#72b1c3 30%)}#es-rc #es-rc-content .es-benefits__title,#es-rc #es-rc-content .es-design__title{font-size:24px}#es-rc #es-rc-content .es-benefits__inner{display:flex;flex-direction:row;justify-content:space-around}#es-rc #es-rc-content .es-benefits__img{max-width:380px;margin-right:0}#es-rc #es-rc-content .es-benefits__content-list{display:flex;flex-direction:row;align-items:flex-start;justify-content:center;max-width:none;flex-wrap:nowrap}#es-rc #es-rc-content .es-benefits__content-title--2{max-width:320px;margin-left:30px;margin-top:-145px}#es-rc #es-rc-content .es-benefits__content-wrapper{padding-top:60px;padding-left:25px;max-width:335px}#es-rc #es-rc-content .es-benefits__content-list-item{min-width:125px;max-width:190px}#es-rc #es-rc-content .es-benefits__content-list-item-title{font-size:14px}#es-rc #es-rc-content .es-benefits__content-list-item-image{max-width:100px}#es-rc #es-rc-content .es-features__wrapper{display:flex}#es-rc #es-rc-content .es-features__bottle-content--desktop{display:block;position:relative;max-width:565px;margin:0 auto}#es-rc #es-rc-content .es-features__bottle-content--mobile{display:none}#es-rc #es-rc-content .es-cross__single-image,#es-rc #es-rc-content .es-features__bottle-content-image{max-width:75%}#es-rc #es-rc-content .es-features__bottle-content-icon-title{position:absolute;max-width:250px;font-size:14px}#es-rc #es-rc-content .es-features__bottle-content-icon-title--1{left:-2%;top:45%}#es-rc #es-rc-content .es-features__bottle-content-icon-title--2{top:26%;right:7%}#es-rc #es-rc-content .es-features__bottle-content-icon-title--3{top:68%;right:0}#es-rc #es-rc-content .es-features__inner{padding-top:125px;margin-right:8%;max-width:39%}#es-rc #es-rc-content .es-steps__list{gap:0;justify-content:center}#es-rc #es-rc-content .es-steps__single{flex-direction:row;justify-content:center;max-width:650px}#es-rc #es-rc-content .es-steps__single--2{margin-left:-12.6%;margin-top:-.1%}#es-rc #es-rc-content .es-steps__single--3{margin-left:-3%;margin-top:-.1%}#es-rc #es-rc-content .es-steps__single-title{font-size:57px}#es-rc #es-rc-content .es-steps__single-title--2{order:3}#es-rc #es-rc-content .es-steps__single-image--2{order:2}#es-rc #es-rc-content .es-steps__single-description{font-size:18px}#es-rc #es-rc-content .es-steps__single-description--2{order:1;text-align:right}#es-rc #es-rc-content .es-steps__single-description--3{text-align:left}#es-rc #es-rc-content .es-restrictions__disclaimer{max-width:50%;margin-left:auto}#es-rc #es-rc-content .es-design{padding-top:50px}#es-rc #es-rc-content .es-design__left-image{position:unset;margin-bottom:20px}#es-rc #es-rc-content .es-cross__subtitle{max-width:70%;margin:0 auto 30px}#es-rc #es-rc-content .es-cross__items{flex-direction:row;align-items:flex-start;justify-content:center}#es-rc #es-rc-content .es-cross__single-item-title{min-height:48px}#es-rc #es-rc-content .es-cross__single{display:flex;flex-direction:column;align-items:center;justify-content:center;max-width:250px;min-width:225px}}#es-rc #es-rc-content .es-footer__image-logo{max-width:218px}@media screen and (min-width:900px){#es-rc #es-rc-content .es-benefits__content-wrapper{padding-top:74px;padding-left:80px;max-width:600px}#es-rc #es-rc-content .es-benefits__subtitle{margin-bottom:31px}}@media screen and (min-width:998px){#es-rc #es-rc-content .es .es-steps__single-description,#es-rc #es-rc-content .es-design__title{text-align:left}#es-rc #es-rc-content .es-kv__subtitle{font-size:36px}#es-rc #es-rc-content .es-kv__inner{padding-left:40px}#es-rc #es-rc-content .es-description__left{padding-bottom:0}#es-rc #es-rc-content .es-style,#es-rc #es-rc-content .es-style__packshot-wrapper{margin-top:-45px}#es-rc #es-rc-content .es-style__description{z-index:1;position:relative}#es-rc #es-rc-content .es-style__packshot-desktop-title--2{top:-24%}#es-rc #es-rc-content .es-design{padding-top:0}#es-rc #es-rc-content .es-design__left,#es-rc #es-rc-content .es-design__right{display:flex}#es-rc #es-rc-content .es-design__content{margin-right:10%;max-width:33%}#es-rc #es-rc-content .es-design__content--1{padding-top:3%;margin-right:5%;max-width:42%}#es-rc #es-rc-content .es-design__content--2{padding-top:3%;margin-left:4%;margin-right:2%;max-width:46%}#es-rc #es-rc-content .es .es-steps__image{margin-bottom:0}#es-rc #es-rc-content .es .es-steps__single{max-width:720px}#es-rc #es-rc-content .es .es-steps__single-title{font-size:65px}#es-rc #es-rc-content .es .es-steps__single-description--2{text-align:right}#es-rc #es-rc-content .es-cross__single{max-width:295px}#es-rc #es-rc-content .es-cross__single-item-title{min-height:unset}#es-rc #es-rc-content .es-cross__single-image{max-width:250px}#es-rc #es-rc-content .es-restrictions__image{margin-top:-75px}#es-rc #es-rc-content .es-benefits__title,#es-rc #es-rc-content .es-cross__title,#es-rc #es-rc-content .es-design__title,#es-rc #es-rc-content .es-features__title{font-size:28px}#es-rc #es-rc-content .es-footer__image{margin-bottom:40px}#es-rc #es-rc-content .es-footer__subtitle{margin-bottom:50px;font-size:18px}}@media screen and (min-width:1200px){#es-rc #es-rc-content .es-kv{padding-bottom:40px}#es-rc #es-rc-content .es-kv__logo{margin-left:35px;padding-top:70px;margin-bottom:0;max-width:40%}#es-rc #es-rc-content .es-kv__content{margin-left:30px;max-width:700px}#es-rc #es-rc-content .es-kv__title{font-size:130px}#es-rc #es-rc-content .es-kv__subtitle{margin-bottom:85px;font-size:35px}#es-rc #es-rc-content .es-kv__packshot{max-width:160px;right:20%;top:7%}#es-rc #es-rc-content .es-kv__description{max-width:500px;font-size:18px}#es-rc #es-rc-content .es-description{background:linear-gradient(to bottom,#7E746D 78%,#14284b 50%)}#es-rc #es-rc-content .es-description__img{max-width:435px;margin-top:-130px}#es-rc #es-rc-content .es-description__subtitle,#es-rc #es-rc-content .es-description__title,#es-rc #es-rc-content .es-features__description{font-size:18px}#es-rc #es-rc-content .es-description__right{max-width:494px;margin-right:9%}#es-rc #es-rc-content .es-style{margin-top:-65px;background:linear-gradient(to bottom,#14284b 80%,#eeebe6 50%)}#es-rc #es-rc-content .es-style__title{margin-bottom:85px}#es-rc #es-rc-content .es-style__packshot-wrapper{margin-top:-100px;max-width:100%}#es-rc #es-rc-content .es-style__description{font-size:18px;max-width:574px}#es-rc #es-rc-content .es-style__packshot-desktop-title{max-width:100%;font-size:27px}#es-rc #es-rc-content .es-style__packshot-desktop-title--1{top:40%;left:4%}#es-rc #es-rc-content .es-style__packshot-desktop-title--2{top:-12%;left:42%}#es-rc #es-rc-content .es-style__packshot-desktop-title--3{top:40%;right:7%}#es-rc #es-rc-content .es-benefits__title,#es-rc #es-rc-content .es-cross__title,#es-rc #es-rc-content .es-design__title,#es-rc #es-rc-content .es-features__title{font-size:27px}#es-rc #es-rc-content .es-features__bottle-content-image{max-width:100%}#es-rc #es-rc-content .es-benefits{background:linear-gradient(to bottom,#eeebe6 41%,#72b1c3 30%)}#es-rc #es-rc-content .es-benefits__img,#es-rc #es-rc-content .es-design__left-image,#es-rc #es-rc-content .es-design__right-image,#es-rc #es-rc-content .es-features__img{max-width:450px}#es-rc #es-rc-content .es-benefits__content-wrapper{padding-top:74px;padding-left:80px;max-width:535px}#es-rc #es-rc-content .es-benefits__subtitle{font-size:18px;margin-bottom:31px}#es-rc #es-rc-content .es-benefits__description{font-size:19px}#es-rc #es-rc-content .es-benefits__content-title--2{max-width:435px;margin-left:86px;margin-bottom:75px;font-size:28px}#es-rc #es-rc-content .es-benefits__content-list-item{max-width:200px}#es-rc #es-rc-content .es-benefits__content-list-item-title{font-size:14px}#es-rc #es-rc-content .es-benefits__content-list-item-image{max-width:105px;margin-bottom:30px}#es-rc #es-rc-content .es-features__bottle-content-icon-title{font-size:14px;max-width:300px}#es-rc #es-rc-content .es-features__bottle-content-icon-title--1{left:-10%;top:47%;max-width:340px}#es-rc #es-rc-content .es-features__bottle-content-icon-title--2{top:28%;right:-2%}#es-rc #es-rc-content .es-features__bottle-content-icon-title--3{max-width:317px;top:72%;right:-8%}#es-rc #es-rc-content .es-steps__text--first{top:3%;left:5%}#es-rc #es-rc-content .es-steps__text--second{top:3%;left:38%}#es-rc #es-rc-content .es-steps__text--third{top:3%;right:2%}#es-rc #es-rc-content .es-steps__single{max-width:690px}#es-rc #es-rc-content .es-steps__single--1{margin-left:8.7%}#es-rc #es-rc-content .es-steps__single--2{margin-left:-12.6%;margin-top:-.1%}#es-rc #es-rc-content .es-steps__single--3{margin-left:7%;margin-top:-.2%}#es-rc #es-rc-content .es-steps__single-title{font-size:55px}#es-rc #es-rc-content .es-design__description,#es-rc #es-rc-content .es-steps__single-description{font-size:18px}#es-rc #es-rc-content .es-restrictions__description{max-width:82%;margin:0 auto;padding-top:55%;font-size:18px}#es-rc #es-rc-content .es-restrictions__disclaimer{margin-top:33px;margin-right:70px}#es-rc #es-rc-content .es-design__content--1{padding-top:6%;margin-right:8%;max-width:40%}#es-rc #es-rc-content .es-design__content--2{padding-top:4%;margin-left:6%;max-width:73%;margin-right:2%}#es-rc #es-rc-content .es-cross__single{max-width:340px;min-width:275px}#es-rc #es-rc-content .es-cross__subtitle{font-size:18px;max-width:79%}#es-rc #es-rc-content .es-cross__single-item-title{font-size:18px}#es-rc #es-rc-content .es-cross__single-description{font-size:15px}#es-rc #es-rc-content .es-cross__items{gap:1px}#es-rc #es-rc-content .es-steps__list{margin-top:-30px}#es-rc #es-rc-content .es-style__packshot-desktop-title--1,#es-rc #es-rc-content .es-style__packshot-desktop-title--3{max-width:none}}
